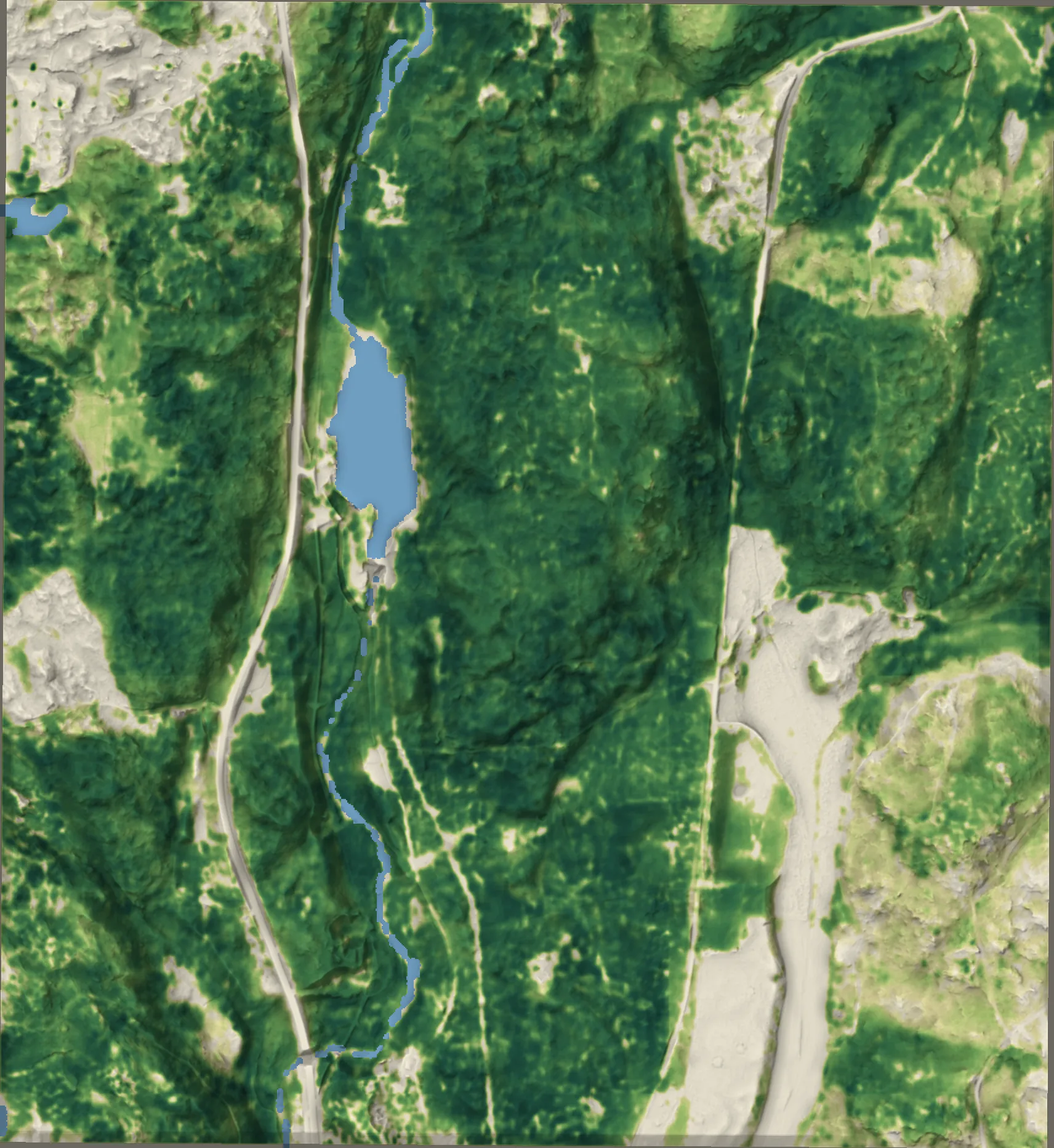
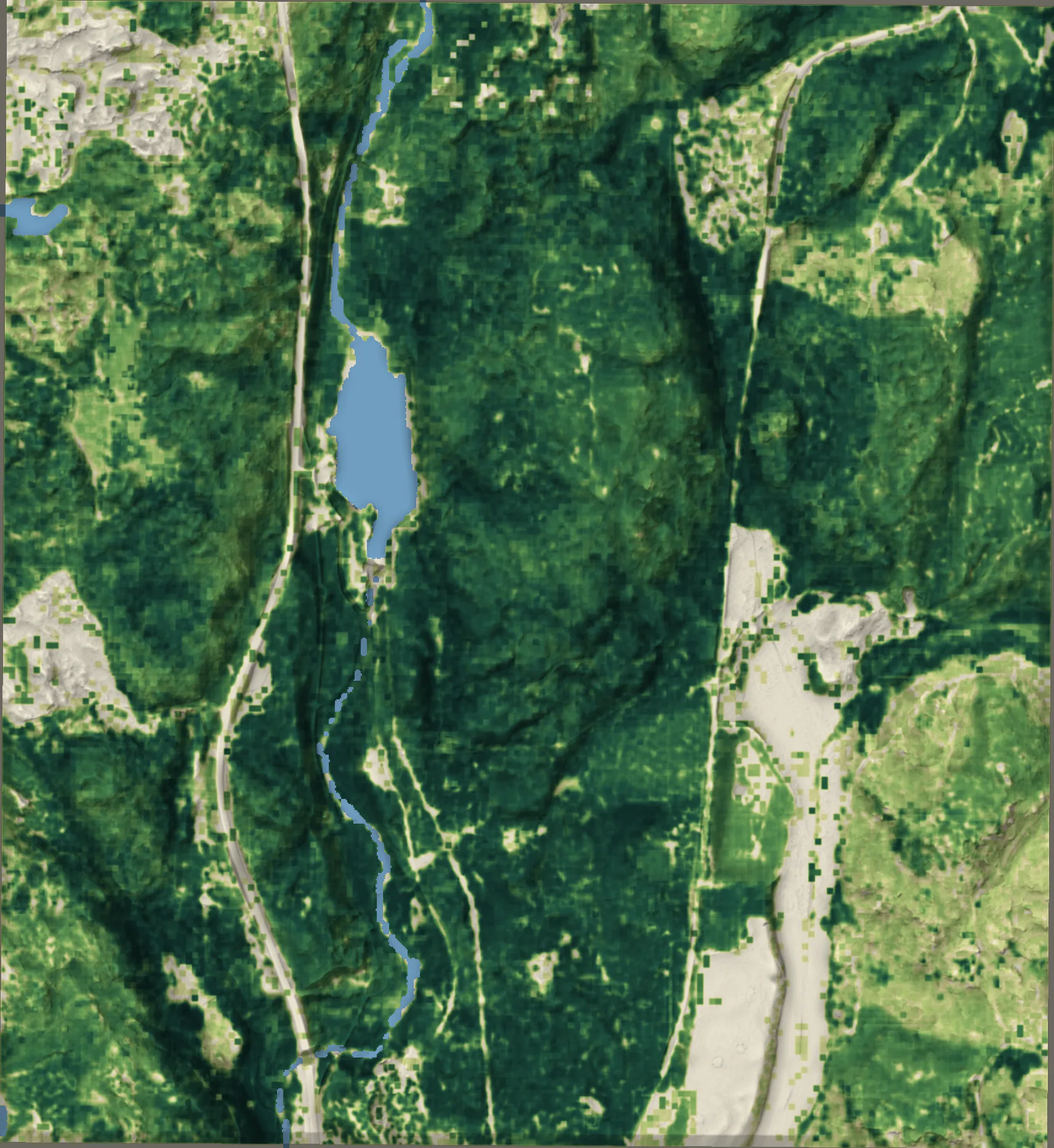
Laser tree heights, NMD2023 thickets and species

diff --git a/sw.js b/sw.js
@@ -1,10 +1,10 @@
-// Offline support for the family map (filled in by scripts/build_site.py: f89e7cef36, 48f0289178, {"app": ["./", "version.json", "manifest.webmanifest", "firebase-config.js", "icon-180.png", "icon-192.png", "icon-512.png", "app.css?v=f89e7cef36", "app.js?v=f89e7cef36", "geo.js?v=f89e7cef36", "i18n.js?v=f89e7cef36", "jakt.js?v=f89e7cef36", "maplibre-gl.css?v=f89e7cef36", "view.js?v=f89e7cef36", "wind.js?v=f89e7cef36", "fb.js?v=f89e7cef36"], "ext": ["https://cdnjs.cloudflare.com/ajax/libs/maplibre-gl/5.24.0/maplibre-gl.js", "https://fonts.googleapis.com/css2?family=Barlow+Condensed:wght@600;700&family=Barlow+Semi+Condensed:wght@400;500;600;700&family=IBM+Plex+Mono:wght@400;500&display=swap", "https://www.gstatic.com/firebasejs/11.0.2/firebase-app.js", "https://www.gstatic.com/firebasejs/11.0.2/firebase-auth.js", "https://www.gstatic.com/firebasejs/11.0.2/firebase-firestore.js"], "data": ["data/areas.json", "data/alnaryd/contours.geojson", "data/alnaryd/drainage.geojson", "data/alnaryd/forest_0_0.webp", "data/alnaryd/game.geojson", "data/alnaryd/game_0_0.png", "data/alnaryd/height_0_0.webp", "data/alnaryd/info.png", "data/alnaryd/manifest.json", "data/alnaryd/osm.geojson", "data/alnaryd/relief_0_0.webp", "data/alnaryd/reserves.geojson", "data/alnaryd/steep_0_0.png", "data/alnaryd/wet_0_0.png", "data/alnaryd/wind.json", "data/alnaryd/wind.png", "glyphs/0-255.txt", "glyphs/256-511.txt"]}, [[15.398225, 56.334191, 15.465921999999999, 56.374908, 8, 15]]).
+// Offline support for the family map (filled in by scripts/build_site.py: 1e70458ed3, 14c3bcaa0b, {"app": ["./", "version.json", "manifest.webmanifest", "firebase-config.js", "icon-180.png", "icon-192.png", "icon-512.png", "app.css?v=1e70458ed3", "app.js?v=1e70458ed3", "geo.js?v=1e70458ed3", "i18n.js?v=1e70458ed3", "jakt.js?v=1e70458ed3", "maplibre-gl.css?v=1e70458ed3", "view.js?v=1e70458ed3", "wind.js?v=1e70458ed3", "fb.js?v=1e70458ed3"], "ext": ["https://cdnjs.cloudflare.com/ajax/libs/maplibre-gl/5.24.0/maplibre-gl.js", "https://fonts.googleapis.com/css2?family=Barlow+Condensed:wght@600;700&family=Barlow+Semi+Condensed:wght@400;500;600;700&family=IBM+Plex+Mono:wght@400;500&display=swap", "https://www.gstatic.com/firebasejs/11.0.2/firebase-app.js", "https://www.gstatic.com/firebasejs/11.0.2/firebase-auth.js", "https://www.gstatic.com/firebasejs/11.0.2/firebase-firestore.js"], "data": ["data/areas.json", "data/alnaryd/contours.geojson", "data/alnaryd/drainage.geojson", "data/alnaryd/forest_0_0.webp", "data/alnaryd/game.geojson", "data/alnaryd/game_0_0.png", "data/alnaryd/height_0_0.webp", "data/alnaryd/info.png", "data/alnaryd/manifest.json", "data/alnaryd/osm.geojson", "data/alnaryd/relief_0_0.webp", "data/alnaryd/reserves.geojson", "data/alnaryd/steep_0_0.png", "data/alnaryd/wet_0_0.png", "data/alnaryd/wind.json", "data/alnaryd/wind.png", "glyphs/0-255.txt", "glyphs/256-511.txt"]}, [[15.398225, 56.334191, 15.465921999999999, 56.374908, 8, 15]]).
 // The app, the map data for the hunting ground and the elevation tiles around it are stored on the phone,
 // so the map, compass, wind and your own position work without coverage. Firebase queues writes by itself.
-const VER = "f89e7cef36";
-const APP = "app-" + VER, DATA = "data-48f0289178", DEM = "dem-v1", EXT = "ext-v1";
+const VER = "1e70458ed3";
+const APP = "app-" + VER, DATA = "data-14c3bcaa0b", DEM = "dem-v1", EXT = "ext-v1";
 const EXT_HOSTS = ["cdnjs.cloudflare.com", "cdn.jsdelivr.net", "www.gstatic.com", "fonts.googleapis.com", "fonts.gstatic.com"];
-const PRECACHE = {"app": ["./", "version.json", "manifest.webmanifest", "firebase-config.js", "icon-180.png", "icon-192.png", "icon-512.png", "app.css?v=f89e7cef36", "app.js?v=f89e7cef36", "geo.js?v=f89e7cef36", "i18n.js?v=f89e7cef36", "jakt.js?v=f89e7cef36", "maplibre-gl.css?v=f89e7cef36", "view.js?v=f89e7cef36", "wind.js?v=f89e7cef36", "fb.js?v=f89e7cef36"], "ext": ["https://cdnjs.cloudflare.com/ajax/libs/maplibre-gl/5.24.0/maplibre-gl.js", "https://fonts.googleapis.com/css2?family=Barlow+Condensed:wght@600;700&family=Barlow+Semi+Condensed:wght@400;500;600;700&family=IBM+Plex+Mono:wght@400;500&display=swap", "https://www.gstatic.com/firebasejs/11.0.2/firebase-app.js", "https://www.gstatic.com/firebasejs/11.0.2/firebase-auth.js", "https://www.gstatic.com/firebasejs/11.0.2/firebase-firestore.js"], "data": ["data/areas.json", "data/alnaryd/contours.geojson", "data/alnaryd/drainage.geojson", "data/alnaryd/forest_0_0.webp", "data/alnaryd/game.geojson", "data/alnaryd/game_0_0.png", "data/alnaryd/height_0_0.webp", "data/alnaryd/info.png", "data/alnaryd/manifest.json", "data/alnaryd/osm.geojson", "data/alnaryd/relief_0_0.webp", "data/alnaryd/reserves.geojson", "data/alnaryd/steep_0_0.png", "data/alnaryd/wet_0_0.png", "data/alnaryd/wind.json", "data/alnaryd/wind.png", "glyphs/0-255.txt", "glyphs/256-511.txt"]};
+const PRECACHE = {"app": ["./", "version.json", "manifest.webmanifest", "firebase-config.js", "icon-180.png", "icon-192.png", "icon-512.png", "app.css?v=1e70458ed3", "app.js?v=1e70458ed3", "geo.js?v=1e70458ed3", "i18n.js?v=1e70458ed3", "jakt.js?v=1e70458ed3", "maplibre-gl.css?v=1e70458ed3", "view.js?v=1e70458ed3", "wind.js?v=1e70458ed3", "fb.js?v=1e70458ed3"], "ext": ["https://cdnjs.cloudflare.com/ajax/libs/maplibre-gl/5.24.0/maplibre-gl.js", "https://fonts.googleapis.com/css2?family=Barlow+Condensed:wght@600;700&family=Barlow+Semi+Condensed:wght@400;500;600;700&family=IBM+Plex+Mono:wght@400;500&display=swap", "https://www.gstatic.com/firebasejs/11.0.2/firebase-app.js", "https://www.gstatic.com/firebasejs/11.0.2/firebase-auth.js", "https://www.gstatic.com/firebasejs/11.0.2/firebase-firestore.js"], "data": ["data/areas.json", "data/alnaryd/contours.geojson", "data/alnaryd/drainage.geojson", "data/alnaryd/forest_0_0.webp", "data/alnaryd/game.geojson", "data/alnaryd/game_0_0.png", "data/alnaryd/height_0_0.webp", "data/alnaryd/info.png", "data/alnaryd/manifest.json", "data/alnaryd/osm.geojson", "data/alnaryd/relief_0_0.webp", "data/alnaryd/reserves.geojson", "data/alnaryd/steep_0_0.png", "data/alnaryd/wet_0_0.png", "data/alnaryd/wind.json", "data/alnaryd/wind.png", "glyphs/0-255.txt", "glyphs/256-511.txt"]};
 const DEM_BOXES = [[15.398225, 56.334191, 15.465921999999999, 56.374908, 8, 15]];   // [west, south, east, north, minZoom, maxZoom] around each hunting ground
 const DEM_URL = "https://tiles.mapterhorn.com/";
 

diff --git a/index.html b/index.html
@@ -13,17 +13,17 @@
 <link rel="apple-touch-icon" href="icon-180.png">
 <link rel="icon" href="icon-192.png">
 <style>:root{padding-top:env(safe-area-inset-top,0px);padding-bottom:env(safe-area-inset-bottom,0px)}</style>
-<script>window.APP_VERSION = "f89e7cef36";</script>
-<script src="firebase-config.js?v=f89e7cef36"></script>
-<script type="module" src="fb.js?v=f89e7cef36"></script>
+<script>window.APP_VERSION = "1e70458ed3";</script>
+<script src="firebase-config.js?v=1e70458ed3"></script>
+<script type="module" src="fb.js?v=1e70458ed3"></script>
 </head>
 <body>
 <title>Alnaryd Hunting Map</title>
 <link rel="preconnect" href="https://fonts.googleapis.com">
 <link rel="preconnect" href="https://fonts.gstatic.com" crossorigin>
 <link rel="stylesheet" href="https://fonts.googleapis.com/css2?family=Barlow+Condensed:wght@600;700&family=Barlow+Semi+Condensed:wght@400;500;600;700&family=IBM+Plex+Mono:wght@400;500&display=swap">
-<link rel="stylesheet" href="maplibre-gl.css?v=f89e7cef36">
-<link rel="stylesheet" href="app.css?v=f89e7cef36">
+<link rel="stylesheet" href="maplibre-gl.css?v=1e70458ed3">
+<link rel="stylesheet" href="app.css?v=1e70458ed3">
 
 <script>document.documentElement.dataset.theme = "dark";</script>
 <div id="app" data-sheet="peek">
@@ -474,12 +474,12 @@
 </div>
 
 <script src="https://cdnjs.cloudflare.com/ajax/libs/maplibre-gl/5.24.0/maplibre-gl.js"></script>
-<script src="i18n.js?v=f89e7cef36"></script>
-<script src="geo.js?v=f89e7cef36"></script>
-<script src="view.js?v=f89e7cef36"></script>
-<script src="wind.js?v=f89e7cef36"></script>
-<script src="jakt.js?v=f89e7cef36"></script>
-<script src="app.js?v=f89e7cef36"></script>
+<script src="i18n.js?v=1e70458ed3"></script>
+<script src="geo.js?v=1e70458ed3"></script>
+<script src="view.js?v=1e70458ed3"></script>
+<script src="wind.js?v=1e70458ed3"></script>
+<script src="jakt.js?v=1e70458ed3"></script>
+<script src="app.js?v=1e70458ed3"></script>
 
 </body>
 </html>

diff --git a/app.js b/app.js
@@ -1262,7 +1262,7 @@
       const col = Math.floor((E - g.origin[0]) / g.cell), row = Math.floor((g.origin[1] - N) / g.cell);
       if (col < 0 || row < 0 || col >= g.width || row >= g.height) continue;
       const i = (row * g.width + col) * 4;
-      return { code: g.codes[g.px[i] - 1], tree: g.px[i + 1] / 8, twi: g.px[i + 2] / 20 };
+      return { code: g.codes[g.px[i] - 1], tree: g.px[i + 1] / 8, thicket: g.px[i + 2] / 2.5 };   // thicket: % cover of 0.5-5 m vegetation
     }
     return null;
   }
@@ -1304,9 +1304,11 @@
     const inf = lookupInfo(lon, lat);
     if (!inf) return { veg: 0, rate: 0 };
     if ((inf.code === 118 || inf.code === 128) && inf.tree > 8) return { veg: 2.5, rate: .05 };  // felled since the tree data
-    if (inf.tree < 1.5) return { veg: 0, rate: 0 };
+    // dense undergrowth (laser: cover of 0.5-5 m vegetation) blocks the view at eye level, even under tall trees
+    const under = (inf.thicket || 0) / 100;
+    if (inf.tree < 1.5) return under > .2 ? { veg: 2, rate: .03 + under * .06 } : { veg: 0, rate: 0 };
     if (inf.tree < 8) return { veg: inf.tree, rate: .07 };
-    return { veg: inf.tree, rate: MATURE_RATE[inf.code] || .015 };
+    return { veg: inf.tree, rate: (MATURE_RATE[inf.code] || .015) + under * .05 };
   }
   async function groundSampler(lon, lat, radius) {
     const z = 15, n = 2 ** z, rad = Math.PI / 180;
